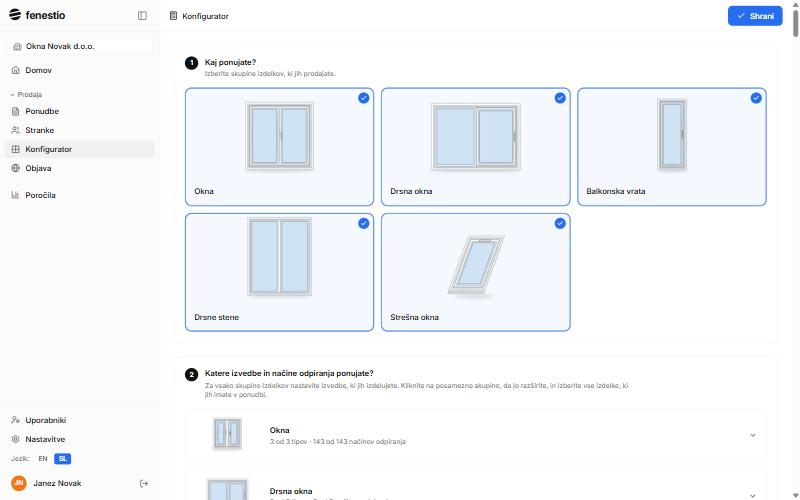
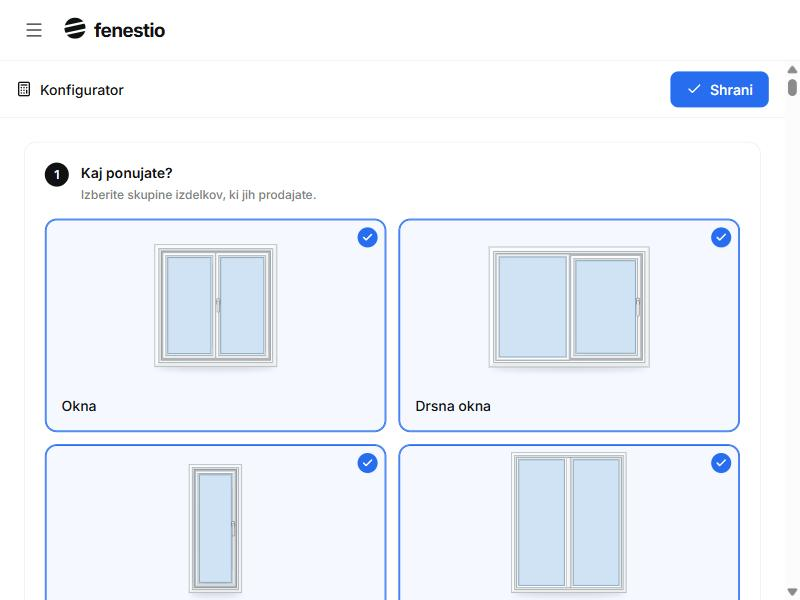
Public: sharp screens in window frames, and a wider page
The screenshots were captured at a size the pane had to scale down, so
they arrived blurred; they are recaptured one to one and are sharp. The
page runs to 1320px instead of 1180.

The hero is a composition rather than a single picture: three screens
of the app standing in window frames - a white profile, a blue one and
a grey one - overlapping on the green band, which is what the product
itself looks like.

diff --git a/src/pages/LandingPage.tsx b/src/pages/LandingPage.tsx
@@ -37,16 +37,17 @@ function Cta({ to, children, tone = 'green', small = false }: { to: string; chil
   )
 }
 
-/** a screen of the app, framed the way a product shot should be */
-function Shot({ src, alt, className = '' }: { src: string; alt: string; className?: string }) {
+/** A screen of the app in a window frame — white, grey or blue profile, like the product itself. */
+function Shot({ src, alt, frame = 'white', className = '' }: { src: string; alt: string; frame?: 'white' | 'grey' | 'blue'; className?: string }) {
+  const mat = frame === 'blue' ? '#cfe2f5' : frame === 'grey' ? '#d8dcde' : '#ffffff'
+  const edge = frame === 'blue' ? 'rgba(13,61,105,0.18)' : frame === 'grey' ? 'rgba(4,24,24,0.16)' : 'rgba(4,24,24,0.10)'
   return (
-    <div className={`rounded-[20px] overflow-hidden bg-white shadow-[0_30px_70px_-30px_rgba(4,24,24,0.45)] ${className}`}
-      style={{ border: '1px solid rgba(4,24,24,0.08)' }}>
-      <div className="h-8 flex items-center gap-1.5 px-4 border-b" style={{ borderColor: 'rgba(4,24,24,0.06)', backgroundColor: '#fbfbfb' }}>
-        {['#ff5f57', '#febc2e', '#28c840'].map(c => <span key={c} className="w-2.5 h-2.5 rounded-full" style={{ backgroundColor: c }} />)}
+    <figure className={`rounded-[18px] p-2.5 sm:p-3 shadow-[0_40px_80px_-32px_rgba(0,0,0,0.55)] ${className}`}
+      style={{ backgroundColor: mat, border: `1px solid ${edge}` }}>
+      <div className="rounded-[10px] overflow-hidden bg-white" style={{ border: `1px solid ${edge}` }}>
+        <img src={src} alt={alt} loading="lazy" className="block w-full" />
       </div>
-      <img src={src} alt={alt} loading="lazy" className="block w-full" />
-    </div>
+    </figure>
   )
 }
 
@@ -101,13 +102,13 @@ export default function LandingPage() {
   return (
     <div className="min-h-screen bg-white" style={{ fontFamily: FONT, color: INK }}>
       {/* ── the green top: navbar and hero stand on the band ───────────── */}
-      <div className="relative" style={{ backgroundColor: DARK }}>
+      <div className="relative overflow-hidden" style={{ backgroundColor: DARK }}>
         {/* a soft light sitting behind the product shot */}
         <div className="pointer-events-none absolute inset-0" style={{ background: 'radial-gradient(900px 420px at 72% 18%, rgba(161,237,134,0.18), rgba(7,41,40,0) 70%)' }} />
 
         {/* floating navbar: the logo and the actions, nothing in between */}
         <div className="sticky top-0 z-40 px-4 sm:px-6 pt-4">
-          <div className="max-w-[1180px] mx-auto rounded-2xl bg-white/95 backdrop-blur shadow-[0_10px_30px_-12px_rgba(4,24,24,0.35)]">
+          <div className="max-w-[1320px] mx-auto rounded-2xl bg-white/95 backdrop-blur shadow-[0_10px_30px_-12px_rgba(4,24,24,0.35)]">
             <div className="h-14 sm:h-16 pl-4 pr-3 sm:pl-6 sm:pr-4 flex items-center justify-between gap-3">
               <Link to="/" className="shrink-0"><AppLogo size="md" showName /></Link>
               <div className="flex items-center gap-1 sm:gap-2">
@@ -125,36 +126,44 @@ export default function LandingPage() {
         </div>
 
         {/* hero */}
-        <section className="relative max-w-[1180px] mx-auto px-5 sm:px-6 pt-14 pb-0 sm:pt-20">
-          <div className="max-w-3xl">
-            <Eyebrow on="dark">{sl ? 'Za ponudnike oken' : 'For window suppliers'}</Eyebrow>
-            <h1 className="mt-5 text-[40px] leading-[1.05] sm:text-[60px] lg:text-[72px] lg:leading-[1.04] font-medium tracking-[-0.025em]" style={{ color: ON_DARK }}>
-              {sl ? <>Konfigurator oken,<br />ki piše ponudbe</> : <>A window configurator<br />that writes the quotes</>}
-            </h1>
-            <p className="mt-6 text-[18px] leading-7 sm:text-[21px] sm:leading-8 max-w-2xl" style={{ color: ON_DARK_MUTED }}>
-              {sl
-                ? 'Stranka na vaši spletni strani sama sestavi okno in odda povpraševanje. Pri vas se odpre kot skonfigurirana ponudba — pregledate, popravite, izdate.'
-                : 'On your website the customer builds the window and sends an enquiry. It opens on your side as a configured quote — you review it, adjust it, issue it.'}
-            </p>
-            <div className="mt-9 flex flex-col sm:flex-row gap-3">
-              <Cta to="/register">{sl ? 'Začnite brezplačno' : 'Start for free'}</Cta>
-              <a href="#konfigurator" className="inline-flex h-12 items-center gap-2 rounded-lg px-6 text-[16px] font-medium border transition-colors hover:bg-white/5"
-                style={{ borderColor: 'rgba(223,249,249,0.28)', color: ON_DARK }}>
-                {sl ? 'Poglejte aplikacijo' : 'See the app'}<ArrowUpRight className="w-[18px] h-[18px]" />
-              </a>
+        <section className="relative max-w-[1320px] mx-auto px-5 sm:px-6 pt-12 pb-0 sm:pt-16">
+          <div className="grid gap-12 lg:grid-cols-[minmax(0,560px)_minmax(0,1fr)] lg:gap-16 lg:items-center">
+            <div>
+              <Eyebrow on="dark">{sl ? 'Za ponudnike oken' : 'For window suppliers'}</Eyebrow>
+              <h1 className="mt-5 text-[40px] leading-[1.05] sm:text-[52px] lg:text-[60px] lg:leading-[1.05] font-medium tracking-[-0.025em]" style={{ color: ON_DARK }}>
+                {sl ? <>Konfigurator oken,<br />ki piše ponudbe</> : <>A window configurator<br />that writes the quotes</>}
+              </h1>
+              <p className="mt-6 text-[18px] leading-7 sm:text-[20px] sm:leading-8" style={{ color: ON_DARK_MUTED }}>
+                {sl
+                  ? 'Stranka na vaši spletni strani sama sestavi okno in odda povpraševanje. Pri vas se odpre kot skonfigurirana ponudba — pregledate, popravite, izdate.'
+                  : 'On your website the customer builds the window and sends an enquiry. It opens on your side as a configured quote — you review it, adjust it, issue it.'}
+              </p>
+              <div className="mt-9 flex flex-col sm:flex-row gap-3">
+                <Cta to="/register">{sl ? 'Začnite brezplačno' : 'Start for free'}</Cta>
+                <a href="#konfigurator" className="inline-flex h-12 items-center gap-2 rounded-lg px-6 text-[16px] font-medium border transition-colors hover:bg-white/5"
+                  style={{ borderColor: 'rgba(223,249,249,0.28)', color: ON_DARK }}>
+                  {sl ? 'Poglejte aplikacijo' : 'See the app'}<ArrowUpRight className="w-[18px] h-[18px]" />
+                </a>
+              </div>
+              <p className="mt-4 text-sm" style={{ color: ON_DARK_MUTED }}>{sl ? 'Brez namestitve. Brez kartice.' : 'No installation. No card.'}</p>
             </div>
-            <p className="mt-4 text-sm" style={{ color: ON_DARK_MUTED }}>{sl ? 'Brez namestitve. Brez kartice.' : 'No installation. No card.'}</p>
-          </div>
 
-          <div className="relative z-10 mt-14 sm:mt-16 translate-y-[56px] sm:translate-y-[96px]">
-            <Shot src="/marketing/porocila.jpg" alt={sl ? 'Poročila v aplikaciji' : 'Reports in the app'} />
+            {/* three screens in window frames, the way the product looks */}
+            <div className="relative lg:-mr-6">
+              <Shot src="/marketing/konfigurator.jpg" frame="white" alt={sl ? 'Spletni konfigurator oken' : 'The online window configurator'} />
+              <Shot src="/marketing/porocila.jpg" frame="blue" alt={sl ? 'Poročila' : 'Reports'}
+                className="hidden sm:block absolute -bottom-12 -left-10 w-[48%]" />
+              <Shot src="/marketing/ponudbe.jpg" frame="grey" alt={sl ? 'Ponudbe' : 'Quotes'}
+                className="hidden lg:block absolute -top-8 right-2 w-[34%]" />
+            </div>
           </div>
+          <div className="h-10 sm:h-20" />
         </section>
       </div>
 
       {/* ── three facts, right under the band ──────────────────────────── */}
-      <section className="max-w-[1180px] mx-auto px-5 sm:px-6">
-        <div className="grid gap-8 sm:grid-cols-3 pt-[88px] pb-10 sm:pt-[136px] sm:pb-14">
+      <section className="max-w-[1320px] mx-auto px-5 sm:px-6">
+        <div className="grid gap-8 sm:grid-cols-3 py-12 sm:py-16">
           {facts.map(f => (
             <div key={f.k}>
               <p className="text-[22px] leading-7 font-medium tracking-[-0.01em]">{f.k}</p>
@@ -167,7 +176,7 @@ export default function LandingPage() {
       {/* ── what it does: a block per screen, alternating sides ─────────── */}
       {blocks.map((b, i) => (
         <section key={b.eyebrow} id={i === 0 ? 'konfigurator' : undefined} style={{ backgroundColor: i % 2 === 1 ? CARD : '#ffffff' }}>
-          <div className="max-w-[1180px] mx-auto px-5 sm:px-6 py-16 sm:py-24 grid gap-10 lg:gap-16 lg:grid-cols-2 lg:items-center">
+          <div className="max-w-[1320px] mx-auto px-5 sm:px-6 py-16 sm:py-24 grid gap-10 lg:gap-16 lg:grid-cols-2 lg:items-center">
             <div className={i % 2 === 1 ? 'lg:order-2' : ''}>
               <Eyebrow>{b.eyebrow}</Eyebrow>
               <h2 className="mt-4 text-[30px] leading-[1.15] sm:text-[42px] sm:leading-[1.14] font-medium tracking-[-0.02em]">{b.title}</h2>
@@ -187,7 +196,7 @@ export default function LandingPage() {
 
       {/* ── the calculation, written out ───────────────────────────────── */}
       <section style={{ backgroundColor: DARK, color: ON_DARK }}>
-        <div className="max-w-[1180px] mx-auto px-5 sm:px-6 py-16 sm:py-24 grid gap-10 lg:gap-16 lg:grid-cols-2 lg:items-center">
+        <div className="max-w-[1320px] mx-auto px-5 sm:px-6 py-16 sm:py-24 grid gap-10 lg:gap-16 lg:grid-cols-2 lg:items-center">
           <div>
             <Eyebrow on="dark">{sl ? 'Kalkulacija' : 'The calculation'}</Eyebrow>
             <h2 className="mt-4 text-[30px] leading-[1.15] sm:text-[42px] sm:leading-[1.14] font-medium tracking-[-0.02em]">
@@ -228,7 +237,7 @@ export default function LandingPage() {
 
       {/* ── price list ─────────────────────────────────────────────────── */}
       <section style={{ backgroundColor: CARD }}>
-        <div className="max-w-[1180px] mx-auto px-5 sm:px-6 py-16 sm:py-24 grid gap-10 lg:gap-16 lg:grid-cols-2 lg:items-center">
+        <div className="max-w-[1320px] mx-auto px-5 sm:px-6 py-16 sm:py-24 grid gap-10 lg:gap-16 lg:grid-cols-2 lg:items-center">
           <div className="lg:order-2">
             <Eyebrow>{sl ? 'Vaš cenik' : 'Your price list'}</Eyebrow>
             <h2 className="mt-4 text-[30px] leading-[1.15] sm:text-[42px] sm:leading-[1.14] font-medium tracking-[-0.02em]">
@@ -244,7 +253,7 @@ export default function LandingPage() {
       </section>
 
       {/* ── pricing ────────────────────────────────────────────────────── */}
-      <section id="cena" className="max-w-[1180px] mx-auto px-5 sm:px-6 py-16 sm:py-24">
+      <section id="cena" className="max-w-[1320px] mx-auto px-5 sm:px-6 py-16 sm:py-24">
         <div className="text-center">
           <Eyebrow>{sl ? 'Cena' : 'Pricing'}</Eyebrow>
           <h2 className="mt-4 text-[30px] leading-[1.15] sm:text-[42px] sm:leading-[1.14] font-medium tracking-[-0.02em]">
@@ -274,7 +283,7 @@ export default function LandingPage() {
       </section>
 
       {/* ── faq ────────────────────────────────────────────────────────── */}
-      <section className="max-w-[1180px] mx-auto px-5 sm:px-6 pb-16 sm:pb-24">
+      <section className="max-w-[1320px] mx-auto px-5 sm:px-6 pb-16 sm:pb-24">
         <Eyebrow>{sl ? 'Pogosta vprašanja' : 'Frequently asked'}</Eyebrow>
         <div className="mt-8 grid gap-x-14 gap-y-8 sm:grid-cols-2">
           {faq.map(f => (
@@ -288,7 +297,7 @@ export default function LandingPage() {
 
       {/* ── closing call ───────────────────────────────────────────────── */}
       <section className="px-5 sm:px-6 pb-16 sm:pb-24">
-        <div className="max-w-[1180px] mx-auto rounded-[24px] px-6 py-14 sm:px-12 sm:py-20 text-center relative overflow-hidden" style={{ backgroundColor: DARK, color: ON_DARK }}>
+        <div className="max-w-[1320px] mx-auto rounded-[24px] px-6 py-14 sm:px-12 sm:py-20 text-center relative overflow-hidden" style={{ backgroundColor: DARK, color: ON_DARK }}>
           <div className="pointer-events-none absolute inset-0" style={{ background: 'radial-gradient(600px 300px at 50% 0%, rgba(161,237,134,0.18), rgba(7,41,40,0) 70%)' }} />
           <div className="relative">
             <h2 className="text-[30px] leading-[1.15] sm:text-[44px] sm:leading-[1.16] font-medium tracking-[-0.02em] max-w-2xl mx-auto">
@@ -304,7 +313,7 @@ export default function LandingPage() {
 
       {/* ── footer ─────────────────────────────────────────────────────── */}
       <footer className="border-t" style={{ borderColor: 'rgba(4,24,24,0.10)' }}>
-        <div className="max-w-[1180px] mx-auto px-5 sm:px-6 py-10 flex flex-col sm:flex-row sm:items-center sm:justify-between gap-6">
+        <div className="max-w-[1320px] mx-auto px-5 sm:px-6 py-10 flex flex-col sm:flex-row sm:items-center sm:justify-between gap-6">
           <div>
             <AppLogo size="sm" showName />
             <p className="mt-2.5 text-sm" style={{ color: MUTED }}>{sl ? 'Storitev ponuja Bimetric · info@bimetric.si' : 'A service by Bimetric · info@bimetric.si'}</p>
